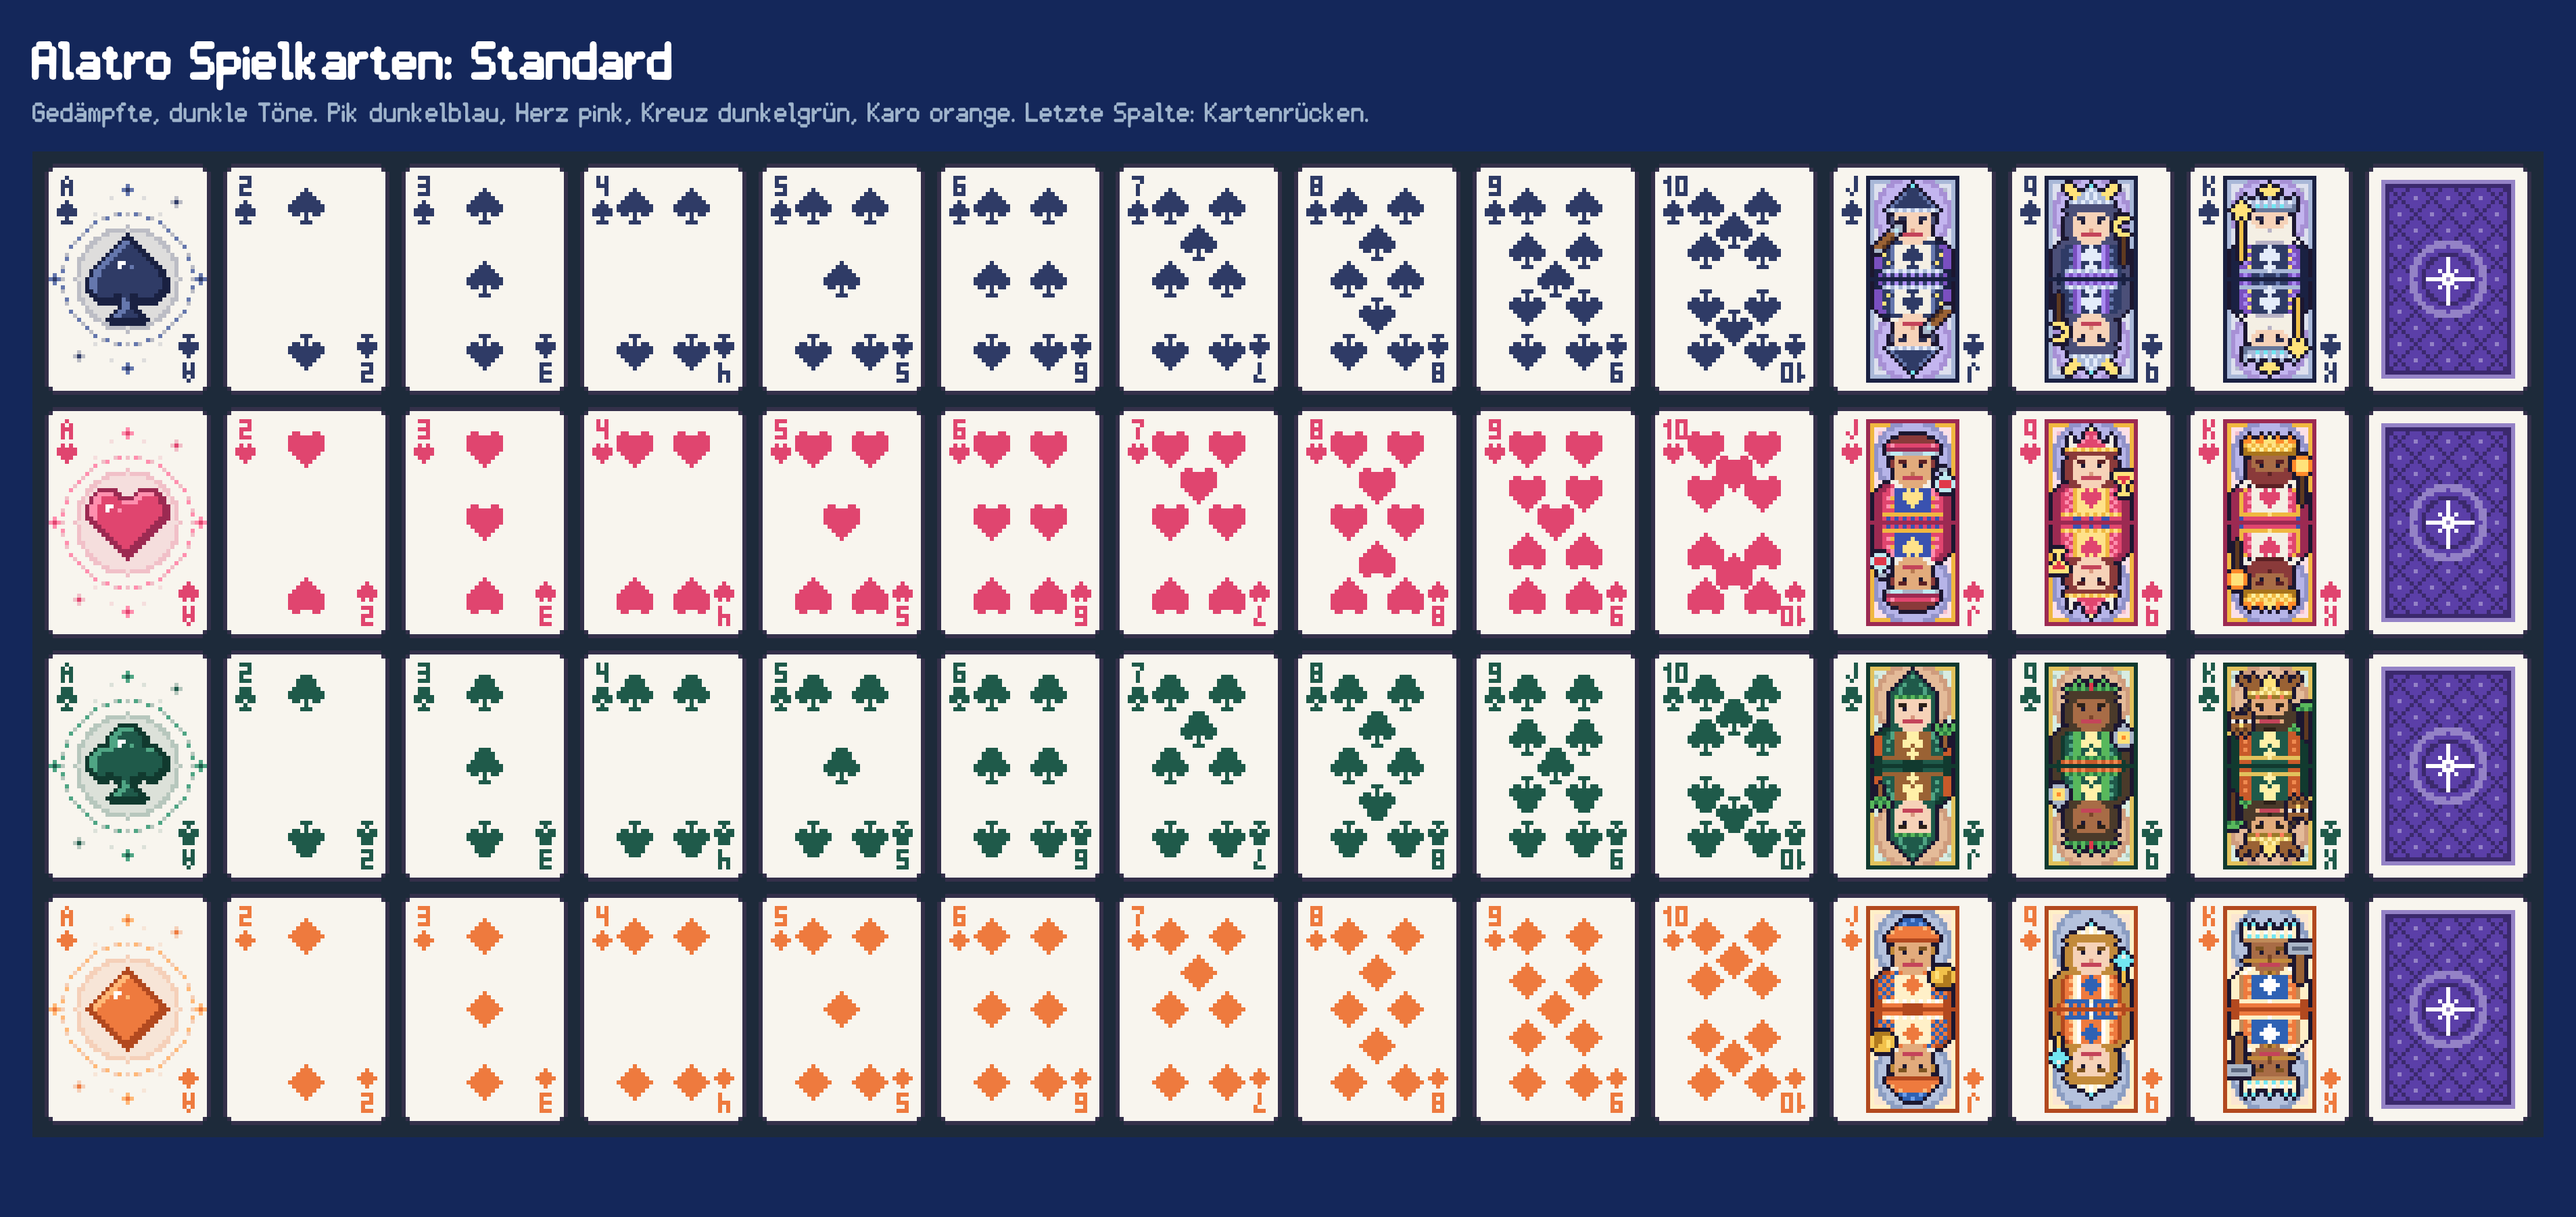
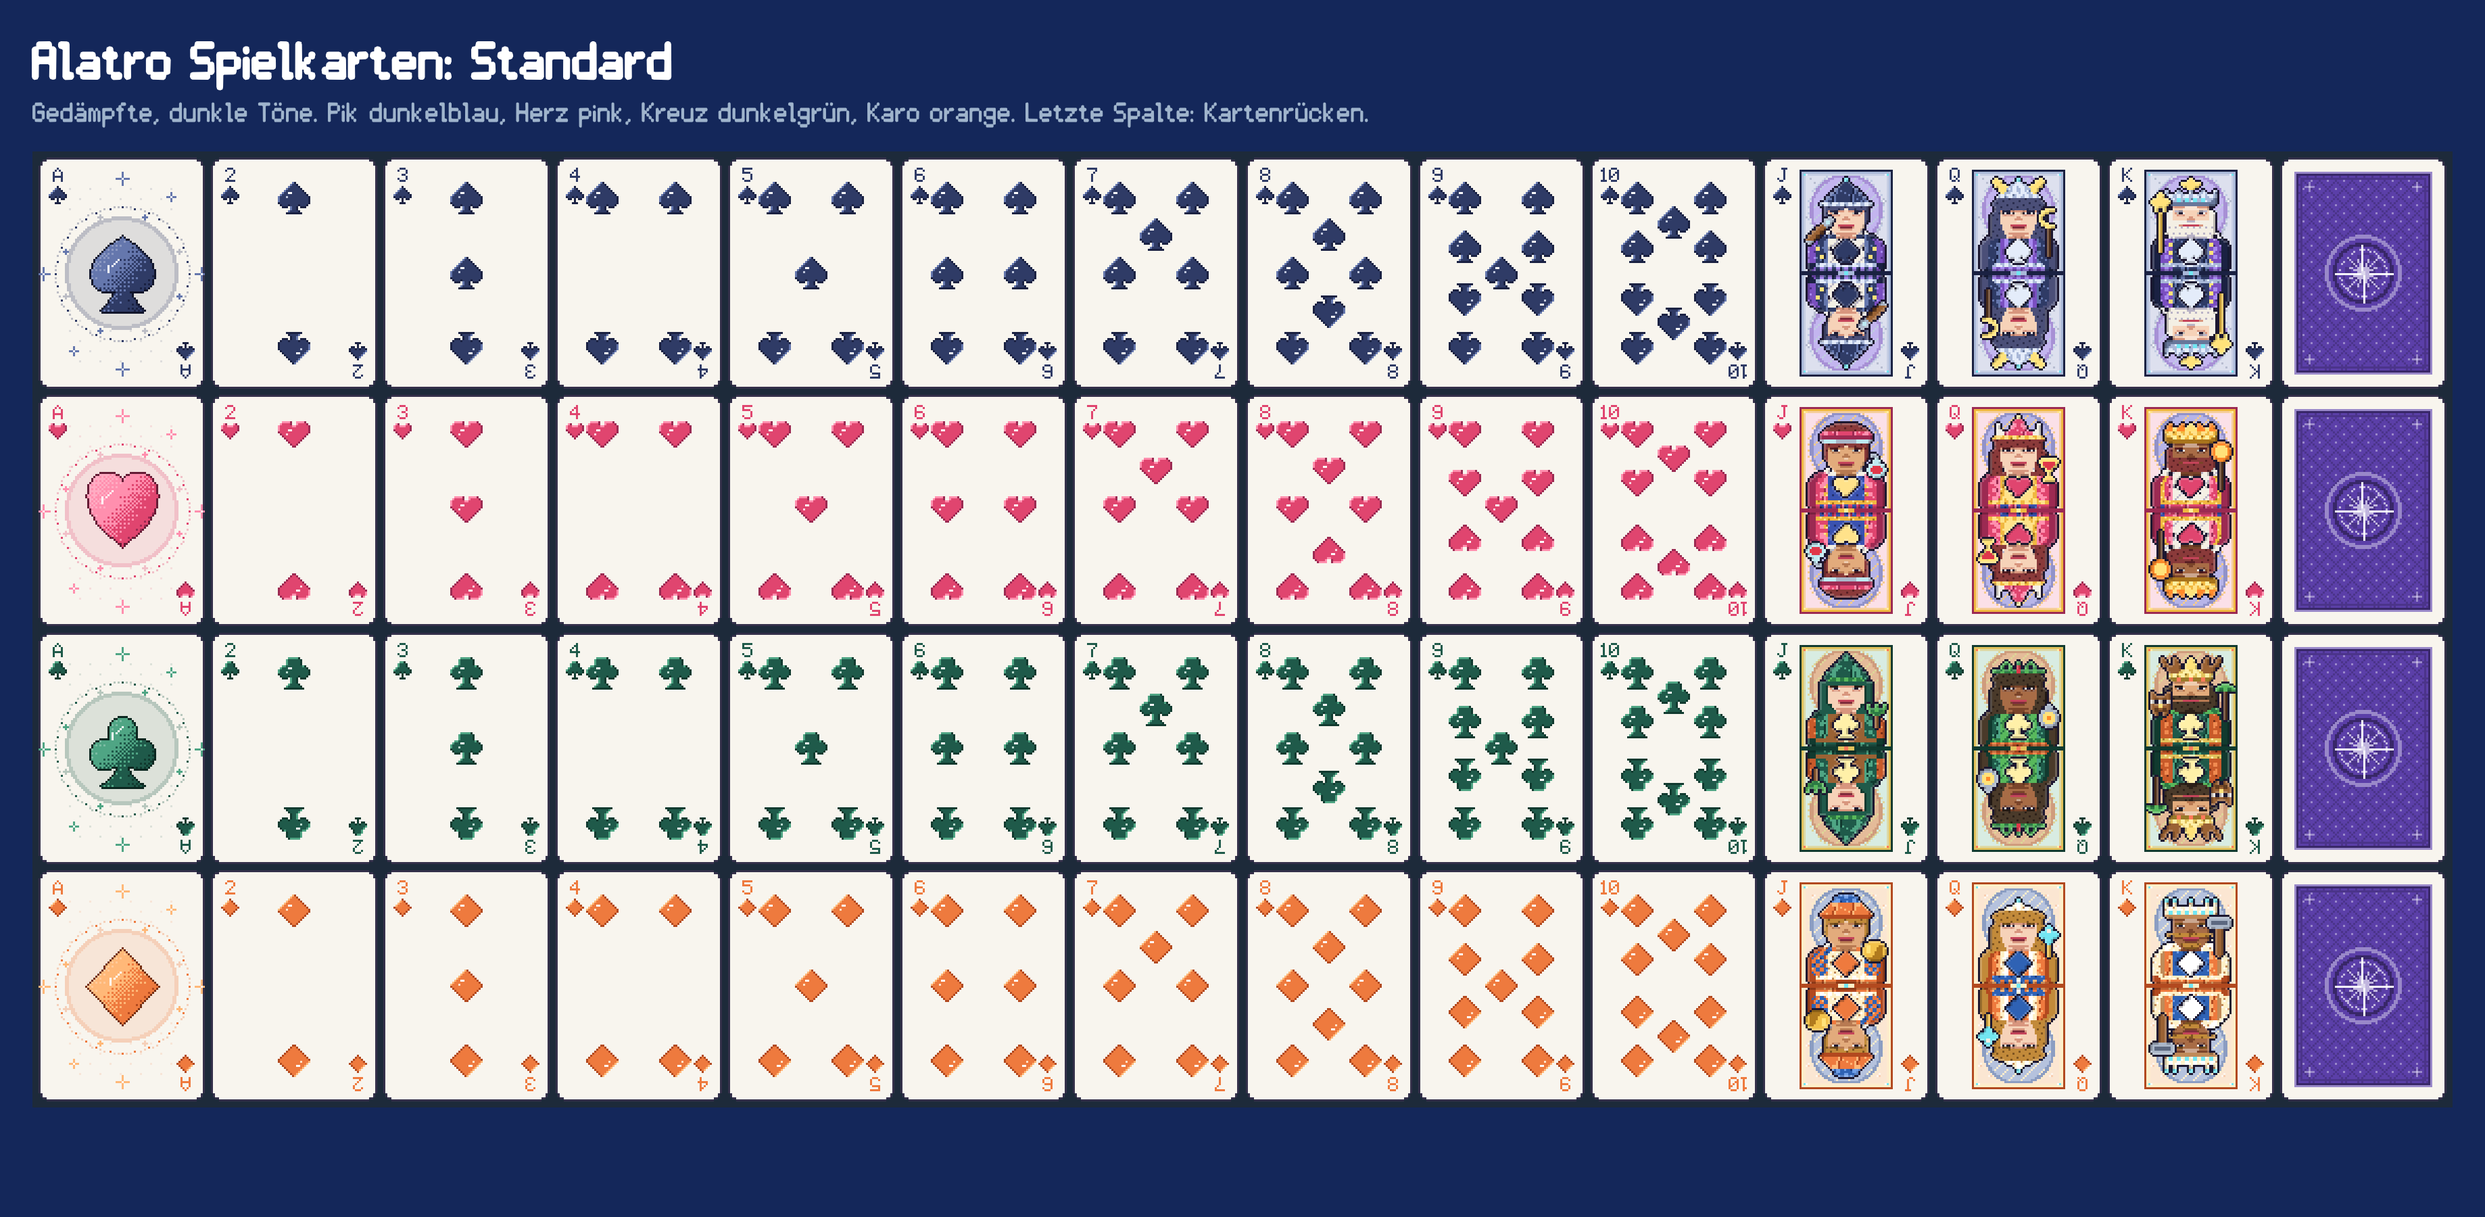
Karten fein: Vorschau, Hand im Spiel, Doku

diff --git a/AUDIT.md b/AUDIT.md
@@ -298,10 +298,10 @@ Umsetzung der Vorschläge V2, V3, V4 und V8 (teilweise) aus `docs/HOOK_REPORT.md
 
 Neues Kartendesign für das 52er Deck als farbiges Pixel Art, komplett im Code gezeichnet (keine Bilddateien, keine fremden Assets, die Stilreferenzen wurden nicht eingelesen oder nachgezeichnet). Die Joker Grafiken sind nicht Teil dieses Schritts.
 
-* **System:** Karte 41 mal 57 Pixel, auf dem Bildschirm dreifach vergrößert (123 mal 171, `CARD_PX_SCALE`). Raster als Zeichen in `src/data/cardArt/` (`cardGlyphs.ts`: Index Schrift, Farbsymbole, Pip Layouts, Ass; `courtSprites.ts`: Figuren und gehaltene Gegenstände; `cardPalettes.ts`: Farben). Renderer ohne DOM in `src/ui/cardArt/` (`pixelBuffer.ts`, `cardRender.ts`), Pixi Texturen mit `scaleMode` nearest in `cardTextures.ts`, Cache pro Karte und Palette.
-* **Inhalt:** weißer Rand mit abgerundeten Ecken, Rang und Farbe oben links und um 180 Grad gedreht unten rechts, Pips 2 bis 10 klassisch (9 mal 9 Pixel, ohne Überlappung, per Test geprüft).
-* **Überarbeitung Bildkarten und Asse:** Zwölf eigene Doppelfiguren (obere Hälfte, untere um 180 Grad gedreht) im Thema: Pik Sternbeobachter (Fernrohr Gehilfe, Mondpriesterin, Sternenkönig), Herz Alchemisten (Kolben Lehrling, Alchemistin, Großalchemist), Karo Goldmacher (Münzjunge, Goldschmiedin, Goldkönig), Kreuz Kräuterkundige (Kräutersammler, Kräuterfrau, Waldkönig). Mehrfarbig: Gewand in Kartenfarbe und zweiter Stofffarbe, Gold, Haar, drei Hauttöne, Brustzeichen der Farbe, Heiligenschein hinter dem Kopf, Zierrahmen und Hintergrundmuster pro Farbe. Asse: großes Symbol mit Licht, Schatten, Glanzpixeln und Kontur, getönte Scheibe, Punktringe, vier Funken und feines Rautenmuster.
-* **Kartenrücken, Kristall:** Rücken im Pixel Stil in der Farbe des Decks. Karten ohne Rang zeigen einen Kristall.
+* **System:** Karte 82 mal 114 Pixel (feine Auflösung), auf dem Bildschirm mit 1,5 dargestellt (123 mal 171 Punkte, `CARD_PX_SCALE`). Raster und Maße in `src/data/cardArt/` (`cardGlyphs.ts`: Index Schrift 5 mal 7, Farbsymbole für Index und Pips, Pip Anordnung, Ass, Bildkarten Rahmen; `faceSprites.ts`: feine Gesichter; `courtSprites.ts`: Hüte, Körper und Gegenstände der Figuren im Entwurfsraster; `cardPalettes.ts`: Farben). Renderer ohne DOM in `src/ui/cardArt/` (`pixelBuffer.ts`, `gridOps.ts` mit Scale2x und Verlaufsraster, `cardRender.ts`), Pixi Texturen mit `scaleMode` nearest in `cardTextures.ts`, Cache pro Karte und Palette.
+* **Inhalt:** weißer Rand mit weich gerundeten Ecken (Abstandsfunktion, Radius 6), Index oben links und um 180 Grad gedreht unten rechts (Ziffern 5 mal 7, Farbsymbol 9 mal 9), Pips 2 bis 10 klassisch (16 mal 16 Pixel, von Hand gezeichnet, mit Licht, Schatten und Glanzpixel, ohne Überlappung per Test geprüft).
+* **Bildkarten und Asse:** Zwölf eigene Doppelfiguren (obere Hälfte, untere um 180 Grad gedreht) im Thema: Pik Sternbeobachter (Fernrohr Gehilfe, Mondpriesterin, Sternenkönig), Herz Alchemisten (Kolben Lehrling, Alchemistin, Großalchemist), Karo Goldmacher (Münzjunge, Goldschmiedin, Goldkönig), Kreuz Kräuterkundige (Kräutersammler, Kräuterfrau, Waldkönig). Aufbau: Hut, Körper und Gegenstände sind im groben Entwurfsraster gezeichnet und werden mit Scale2x verdoppelt und geglättet. Darauf kommen Stofftexturen (Falten, Brokat, Goldglanz, Hermelin), dunkle 1 Pixel Kontur, Kantenlicht und Kantenschatten. Gesichter (Augen mit Weiß und Pupille, Brauen, Nase, Lippen, Haar, Bärte) sind in feiner Auflösung gezeichnet, dazu kommen drei Hauttöne, das Brustzeichen der Farbe, ein Heiligenschein hinter dem Kopf, Zierrahmen und Hintergrundmuster pro Farbe. Asse: großes Symbol (35 mal 37) mit Farbverlauf in Rasterstufen, Kontur, Glanzbogen, getönte Scheibe, Punktringe, Funken und feines Rautenmuster.
+* **Kartenrücken, Kristall:** Rücken in der Farbe des Decks mit feinem Rautengitter, drei Rändern, Ecksternen und Medaillon mit sechzehnzackigem Stern. Karten ohne Rang zeigen einen Kristall mit Verlauf und Facetten.
 * **Paletten:** "Standard" (Pik dunkelblau, Herz pink, Kreuz dunkelgrün, Karo orange) und "Hoher Kontrast" (Pik dunkel, Herz rot, Kreuz blau, Karo gold). Wahl in den Optionen ("Kartenfarben"), wirkt sofort auch auf Karten im Bild.
 * **Einstellung:** Neues Feld `cardPalette` in `Settings` (Schlüssel `alatro.settings.v2`). `parseSettings` setzt bei fehlendem oder ungültigem Wert Standard, deshalb ist keine Migration nötig. **`SAVE_VERSION` bleibt 5**, der Run Spielstand ändert sich nicht.
 * **UI Eingriffe:** `CardView` (Sprite statt Text und Formen, Enhancement Fläche als Texturfarbe, Name, Siegel und Edition bleiben Overlays), `cardBack`, `ShopView` (Kartenmaß aus `CARD_H`), Optionen in `Game.ts`. Die Engine ist unberührt.
@@ -423,9 +423,9 @@ Stellen aus dem Briefing, die als [UNSICHER] markiert sind. Umgesetzt wird jewei
 | O85 | Vibration | Eigene Schicht `src/ui/haptics.ts`, Muster in `data/juice.ts` (`HAPTICS`), Option `haptics` in den Einstellungen (Standard an, ohne neue SAVE_VERSION). Android: `navigator.vibrate`. iPhone: Safari hat kein `vibrate`, ein verstecktes `input switch` (iOS 17.4 und neuer) löst nur ein einzelnes Tippen aus und nur im Rahmen einer Berührung, Zählschritte spüren dort also eventuell nichts. iPad: kein Taptic Motor, die Option meldet das. Nur im Code und per Test geprüft, **nicht auf einem echten Gerät** |
 | O86 | Home Titel aus Karten | Der Titel wird bei jedem Öffnen des Home Bildschirms neu hingeworfen (auch beim Zurückkehren aus dem Spiel). Das Umdrehen ist reine Spielerei ohne Wirkung. Suits und Neigung der Karten sind festgelegt, nicht zufällig, damit der Titel immer gleich aussieht. Die Schrift der Buchstaben ist `Alatro Pixel`, Karten und Rücken nutzen Maße und Farben der Spielkarten (`CARD_W`, `CARD_H`). Ist die Einführung noch offen, liegt das Willkommensfenster über dem Titel |
 | O87 | Titelschrift Alatro Karte | Eigene zweite Schrift, nur für die Titelkarten (`FONT_TITLE` in `src/ui/theme.ts`), mit Rückfall auf Alatro Pixel. Sie enthält nur die Zeichen A, L, T, R und O. Soll der Titel anders heißen oder die Schrift anderswo erscheinen, müssen die Glyphen in `tools/titlefont.py` ergänzt und die Datei neu erzeugt werden (`pip install fonttools shapely`). Die Datei wird wie die Pixel Schrift mit eingecheckt |
-| O88 | Kartenmaß | Die Karte ist 123 mal 171 (41 mal 57 Pixel mal 3), vorher 111 mal 153 und davor 112 mal 156. Das Hand Layout rückt dafür enger (`spacing` 108 statt 114, Breite 780). Gedrehte oder nicht ganzzahlig skalierte Karten (Hand Fächer, Pack Auswahl mit Maßstab 2 zu 3, Shop) zeigen leicht ungleiche Pixel. Auf dem iPad prüfen |
+| O88 | Kartenmaß | Die Karte ist 82 mal 114 Pixel groß und wird mit 1,5 dargestellt (123 mal 171 Punkte, wie zuvor), ein Kartenpixel ist also 1,5 Punkte. Auf einem Retina Bildschirm (Faktor 2) sind das genau 3 Gerätepixel. Weil das Spiel ohnehin auf die Bildschirmgröße skaliert wird und Karten im Fächer gedreht sind, bleibt nearest bei krummen Faktoren, die feinen Pixel machen die Ungleichheit kaum sichtbar. Das Hand Layout rückt dafür enger (`spacing` 108, Breite 780). Auf dem iPad prüfen: Schärfe im Fächer, Lesbarkeit von Rang und Farbe |
 | O89 | Index unten rechts | Der gedrehte Index liegt unten rechts, wie bei echten Karten (der Auftrag nannte "unten links"). Falls wirklich links gewünscht, ist es eine Zeile in `renderCard` |
-| O90 | Figuren Eigenentwürfe | Die zwölf Bildkarten sind je eine eigene Zeichnung aus Kopf mit Kopfbedeckung, Oberkörper und Gegenstand (`FIGURES` in `src/data/cardArt/courtSprites.ts`), mit eigener Pose, Kleidung, Gesicht, Hautton und eigenem Gegenstand. Gemeinsam sind nur Maße, Oberkörperbau (gespiegelte Hälften, Brustzeichen der Farbe) und die Gesichtsvorlagen pro Typ. Keine Vorlage, keine Referenzpixel. Gesichter sind klein (9 Pixel breit) und bewusst einfach |
+| O90 | Figuren Eigenentwürfe | Die zwölf Bildkarten sind je eine eigene Zeichnung (`FIGURES` in `src/data/cardArt/courtSprites.ts`: Hut, Körper, Gegenstand, Hautton, Gesichtsart). Gesichter kommen aus sieben Vorlagen mit Überlagen (`src/data/cardArt/faceSprites.ts`), die sich pro Figur durch Hut, Haar, Bart, Hautton und Gewand unterscheiden. Hut, Körper und Gegenstände sind Entwurfsraster, die der Renderer verdoppelt und glättet. Das wirkt feiner, bleibt aber eine Ableitung, keine Pixel für Pixel gezeichnete Figur. Keine Vorlage, keine Referenzpixel. Mehr Einzelheiten pro Figur (Hände, Faltenwurf von Hand) sind möglich und kosten jeweils eigene Raster |
 | O91 | Palette nur in den Optionen | Die Kartenpalette gilt für alle Karten gleichzeitig, auch Atlas und Shop. Sie ist keine Run Einstellung. Der Kartenrücken ist von der Palette unabhängig (Deckfarbe) |
 | O92 | Release 0.8.0 | Pixel Art für Karten, Jokers, Consumables und Packs ist mit Version 0.8.0 und Patch Notes Eintrag live gestellt. Offene Punkte der Grafik: `docs/joker-art.md` (O-J1 bis O-J4) und `docs/consumable-pack-art.md` (O-C1 bis O-C6). **Nicht auf einem iPad geprüft:** Schärfe, Lesbarkeit der kleinen Namen, Tippgefühl, Leistung der Funken. O53 (Embleme aus Hash) ist durch die Joker Pixel Art überholt |
 | O93 | Hintergrundmusik | **Nicht gehört, nur gemessen:** Pegel, Spektrum und Fehlerfreiheit sind im Browser geprüft (Lautheit, kein Bass, kein Clipping, keine Konsolenfehler), der Klang selbst ist nicht von einem Menschen beurteilt. Standard ist Mix bei 50 Prozent. Die Musik läuft über das ganze Spiel ohne Anpassung an Blinds, nur das Ducking reagiert auf große Effekte. Die Stärke des Duckings (`MUSIC.duck`) und die Aufenthaltsdauer im Mix sind Schätzwerte, die man hören muss. Akku und Bildrate mit Musik auf dem iPad sind nicht gemessen. |

diff --git a/docs/HANDOFF.md b/docs/HANDOFF.md
@@ -33,9 +33,9 @@ Der Titel ALATRO im Home Bildschirm besteht aus sechs Karten (`src/ui/TitleCards
 
 Neues Kartendesign (Details und offene Punkte O88 bis O92 in `AUDIT.md`). Karten sind Pixel Raster im Code: Daten in `src/data/cardArt/`, Renderer ohne DOM in `src/ui/cardArt/`, `CardView` zeigt sie als Sprite mit nearest Skalierung. Zwei Paletten (Standard, Hoher Kontrast), Wahl in den Optionen, gespeichert in `settings.cardPalette` (keine Save Migration).
 
-* **Karten ändern:** Pips und Symbole in `cardGlyphs.ts`, Figuren in `courtSprites.ts` (zwölf Einträge in `FIGURES`: Kopf und Körper als halbe Zeilen, die gespiegelt werden, dazu Gegenstand und Hautton), Farben in `cardPalettes.ts`. Vorschau neu erzeugen: `node tools/cardPreview.cjs` (Playwright nötig), Ergebnis in `preview/`.
+* **Karten ändern:** Pips und Symbole in `cardGlyphs.ts`, Figuren in `courtSprites.ts` (zwölf Einträge in `FIGURES`: Hut und Körper als halbe Zeilen im Entwurfsraster, dazu Gegenstand, Hautton und Gesichtsart), feine Gesichter in `faceSprites.ts`. Die Karte ist 82 mal 114 Pixel groß und wird mit 1,5 dargestellt, Farben in `cardPalettes.ts`. Vorschau neu erzeugen: `node tools/cardPreview.cjs` (Playwright nötig), Ergebnis in `preview/`.
 * **Weitere Grafiken:** Jokers (`src/ui/jokerSprites*.ts`, `docs/joker-art.md`), Consumables und Packs (`src/ui/consumable*.ts`, `src/ui/packArt*.ts`, `src/ui/consumableTray.ts`, Zahlen in `src/data/consumableArt.ts`, `packArt.ts`, `voucherArt.ts`, `artFx.ts`, Notizen in `docs/consumable-pack-art.md`). Vorschau Bilder liegen in `preview/`.
-* **Als Nächstes:** Auf dem iPad prüfen: Lesbarkeit von Rang und Farbe bei dreifacher Vergrößerung, Schärfe der Karten im Hand Fächer (leichte Drehung).
+* **Als Nächstes:** Auf dem iPad prüfen: Lesbarkeit von Rang und Farbe bei dreifacher Vergrößerung, Schärfe der Karten im Hand Fächer (leichte Drehung, Skalierung 1,5).
 
 ## Version 0.6.0: Sternenatlas, Siegel, Rückschau
 
